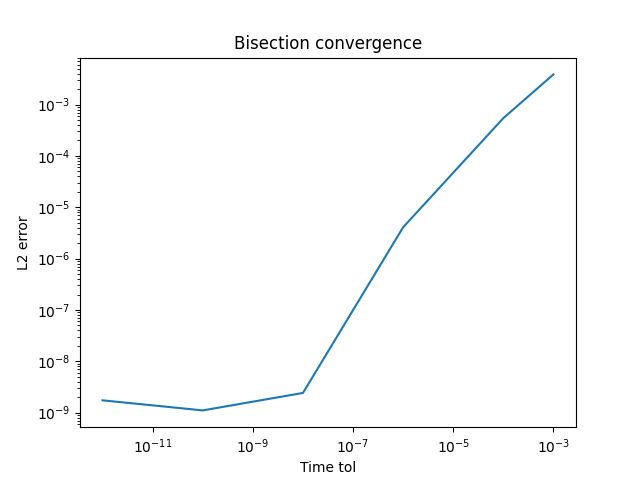
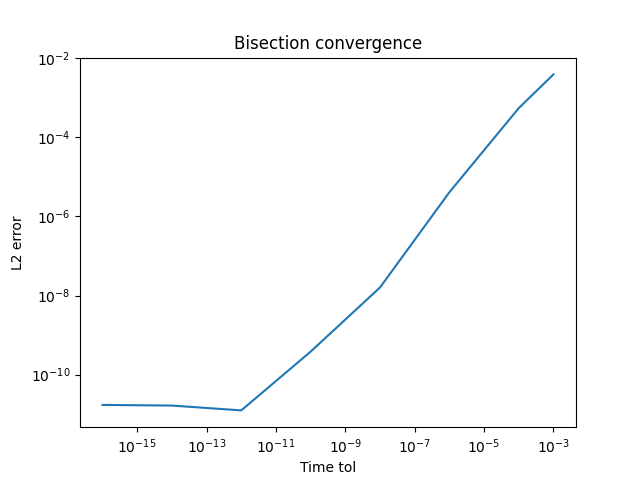
added new finding regarding the scaling of bisection error

diff --git a/test_bisection_convergence.py b/test_bisection_convergence.py
@@ -29,7 +29,7 @@ T = 1.5
 dt = 0.1
 
 # bisection_iters = [28, 30, 40, 50]
-time_tols = [1e-3, 1e-4, 1e-6, 1e-8, 1e-10, 1e-12]
+time_tols = [1e-3, 1e-4, 1e-6, 1e-8, 1e-10, 1e-12, 1e-14, 1e-16]
 
 errors = []
 bisection_calls = []
@@ -59,6 +59,7 @@ for tol in time_tols:
         particle_vom, mesh, v, dt, T, t=0.0,
         max_bisection_iters=max_iter,
         time_tol = tol,
+        bary_tol=1e-11,
         plot=False
     )
     
@@ -78,13 +79,19 @@ for tol, calls, err in zip(time_tols, bisection_calls, errors):
     print(f"{tol:>12.0e} {err:>14.6e} {calls:>16d}")
 
 # plt.semilogy(time_tols, errors)
-plt.loglog(time_tols, errors)
+plt.loglog(time_tols, errors, label="L2 Error")
+# ref = np.array(time_tols)
+# plt.loglog(ref, ref * (errors[-1]/time_tols[-1]), '--k', alpha=0.75, label="slope 1")
+# plt.legend()
 plt.xlabel("Time tol")
 plt.ylabel("L2 error")
 plt.title("Bisection convergence")
 plt.savefig("plots/bisection_error.png")
 
 # NOTE:
-# - When the bisection algorithm does converge, its error is of the order of at most time_tol.
+# - When bisection converges, the final error is of the order of at least time_tol but it also depends on bary_tol: 
+#   if bary_tol <= time_tol then the error is O(time_tol), 
+#   if bary_tol > time_tol then the error is O(bary_tol)
+#   so error = O(max(bary_tol, time_tol))
 # - The number of bisection iterations is only relevant up to convergence (error is the same once bisection converged).
 # - The error is expected to plateau once time_tol is small enough.